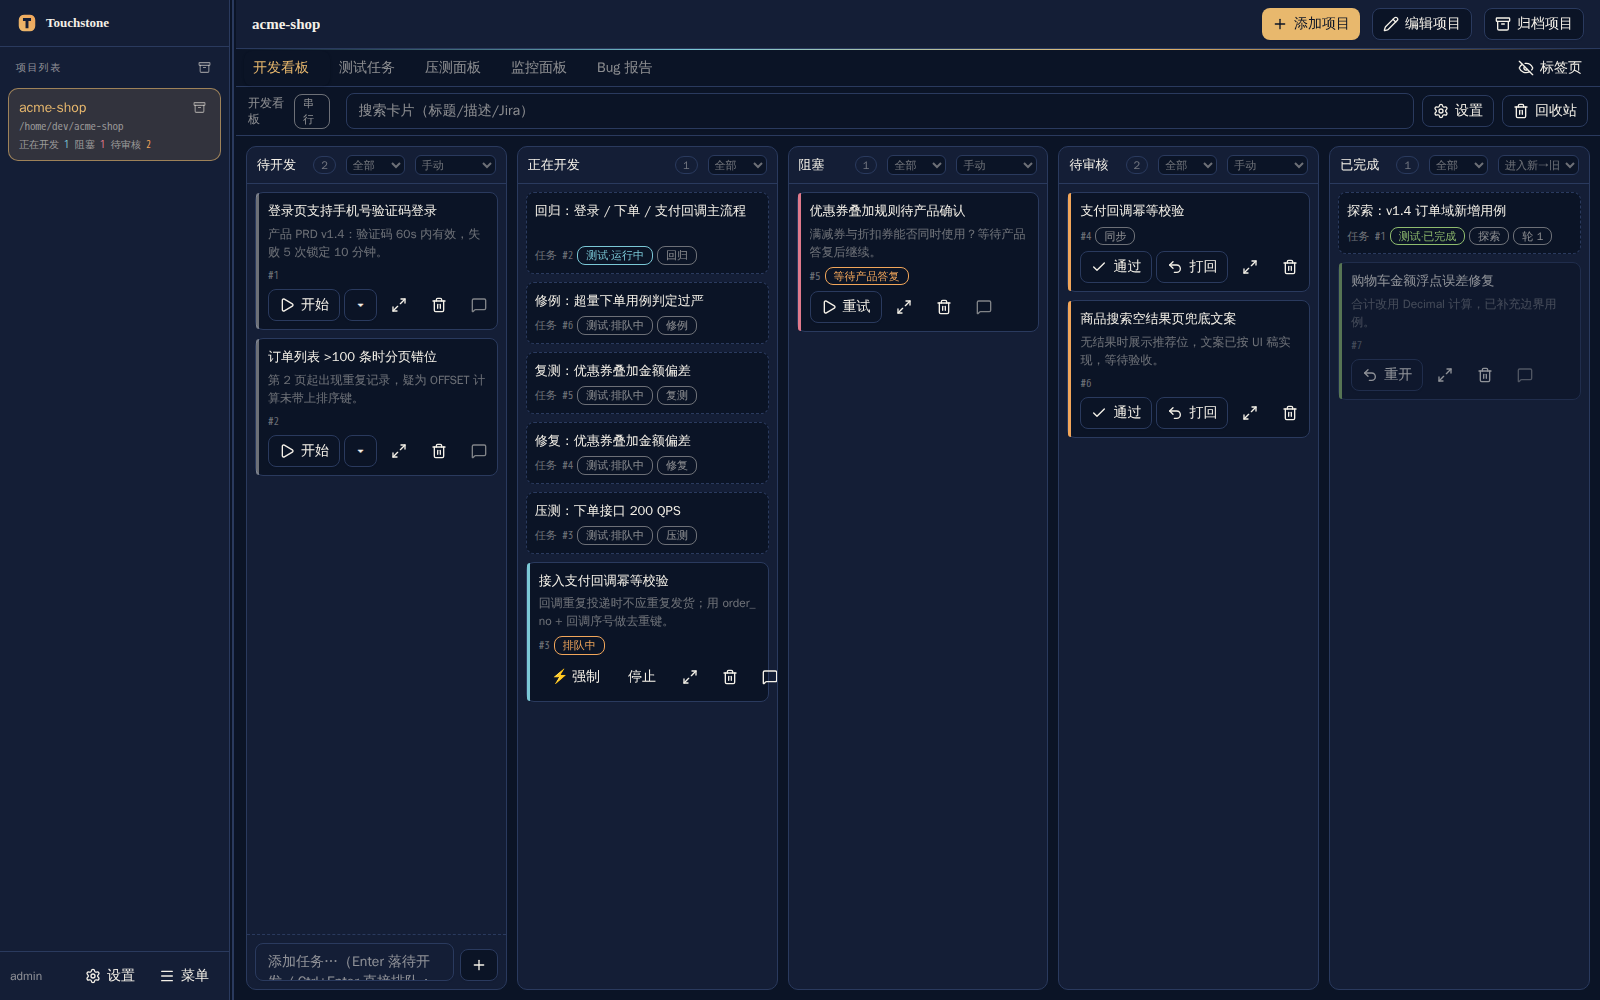
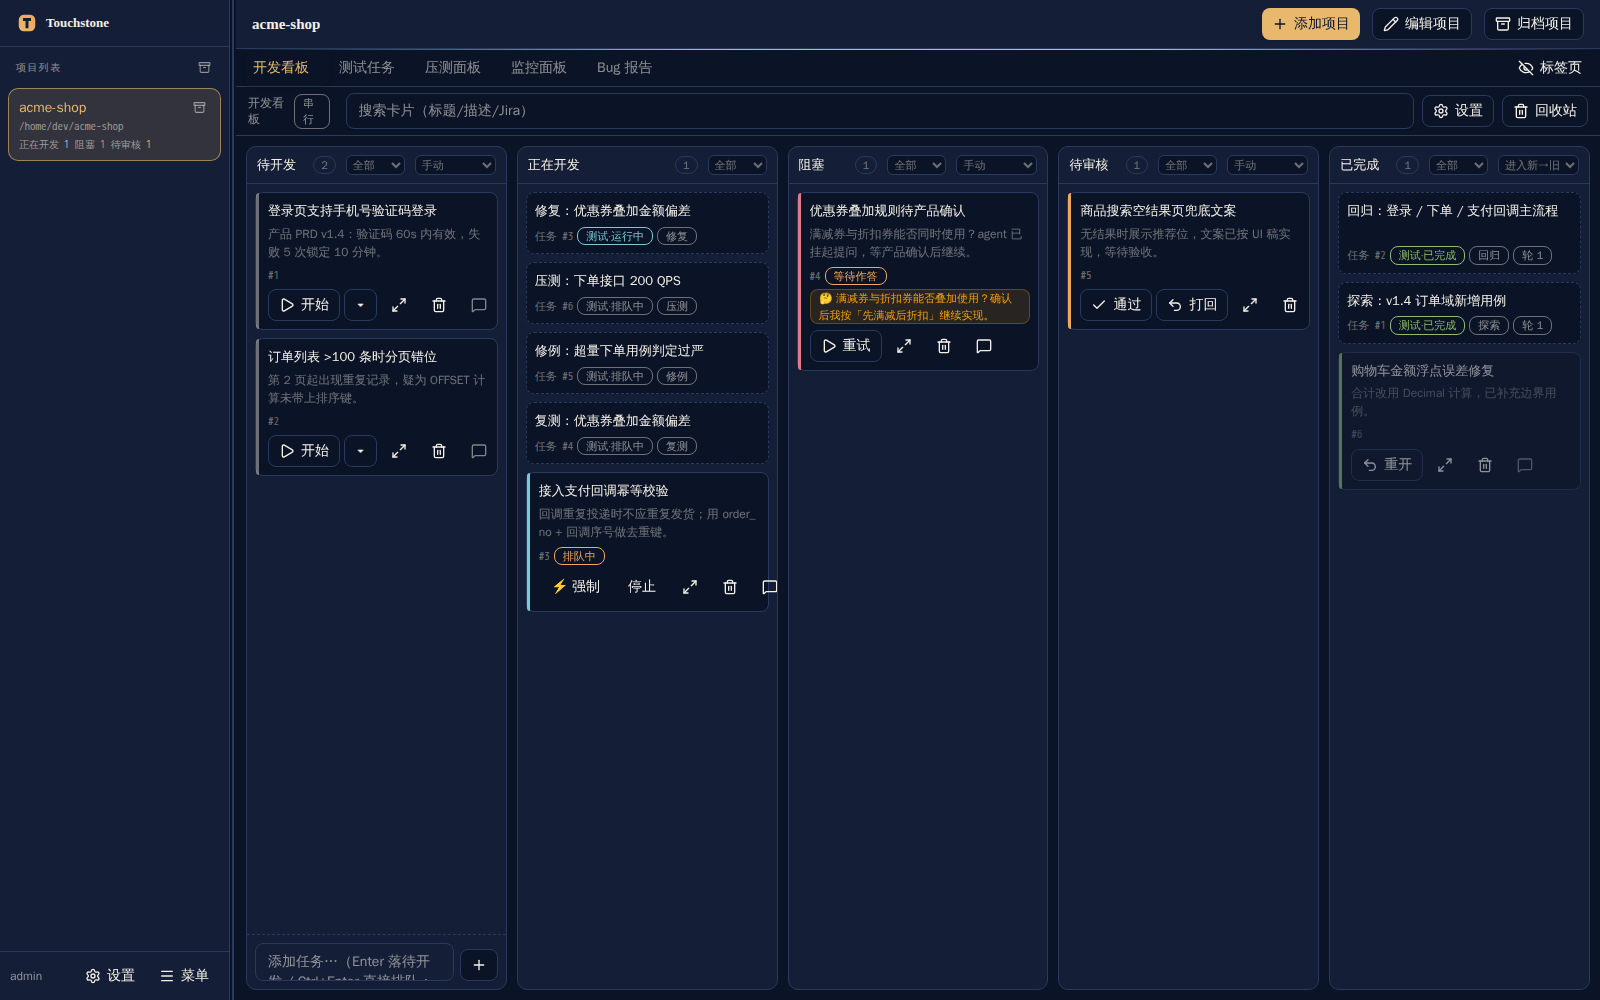
--AGENT-- fix(readme): make the blocked-card screenshot show the real interaction-blocked state
The board screenshot previously showed a free-text block reason typed straight through the API - something
the UI cannot produce (dragging a card into Blocked sends no text, so the badge reads the built-in
fallback). Recapture it through the platform's own path instead: start the card's session, have the
driver publish a pending question, and let the reconciler move the card to Blocked with the question
excerpt as the badge text.

To make that possible the fake dsh driver now models a hanging question the way the real plugin does:
/_ctl/ask accepts the dsh-shaped questions list, and a pending question keeps the session running
(the platform's pending check requires busy=True) until it is answered or ended.

Also reorder the demo seeding so the screenshot shows no artifacts of the stub (the stress task, whose
agent round cannot produce a load plan package, is queued last and stays 'queued').

Changed region(s): [[0.5, 0.186, 0.9688, 0.434], [0.3125, 0.186, 0.4688, 0.682]]

diff --git a/tests/fakedriver.py b/tests/fakedriver.py
@@ -14,7 +14,11 @@ chat/dshevents）走**原路径**跑起来。
 - **不落会话存储**：不写 `~/.dsh/sessions/**`，故会话窗的**消息内容**在替身下
   为空（本仓的隔离 e2e 断言的是队列/状态/徽标，不依赖消息正文）；
 - 忙时 `/prompt` 进 inbox（对齐宿主 followup 的排队语义），轮末自动取下一项；
-- `/_ctl/*` 是对照控制面（测试脚本用它制造提问/审批/错误/计数），真插件没有。
+- `/_ctl/*` 是对照控制面（测试脚本用它制造提问/审批/错误/计数），真插件没有；
+  `/_ctl/ask` 制造的挂起提问会**保持会话 running 并暂停轮计时**，直到 `/answer` 或
+  `/_ctl/end_interaction` 放行——对齐真插件「等作答时 agent 保持 busy」的实况
+  （平台 `_iw_interaction` 的 pending 判定要求 busy=True）；`/_ctl/ask` 传
+  `questions`（dsh 题目列表）时原样进 mark，平台阻塞徽标才能取到真题干。
 
 状态流帧（`?scope=state`）与真插件同形：`{seq, time, type, session_id, data}`，
 `dshevents.EventHub` 直接折叠（字段口径见该模块 `_on_frame`）。
@@ -292,6 +296,14 @@ class FakeDriver:
             while waited * 1000 < self.turn_ms:
                 if sess.turn_cancel.wait(step):
                     break
+                # 挂起提问/审批期间**不计入轮时长**（对齐真插件：agent 等作答时保持
+                # busy，平台 `_iw_interaction` 的 pending 判定要求 busy=True）。
+                # 作答（`/answer`）与 `/_ctl/end_interaction` 都会 set 该事件。
+                with sess.lock:
+                    held = sess.interaction is not None
+                if held:
+                    sess.await_answer.wait(step)
+                    continue
                 waited += step
             reason = "aborted" if sess.turn_cancel.is_set() else "completed"
             text = "" if reason == "aborted" else (
@@ -667,9 +679,17 @@ class _Handler(BaseHTTPRequestHandler):
             if sess is None:
                 return self._json(404, {"error": "session not found"})
             kind = str(body.get("kind") or "question")
+            questions = body.get("questions")
             if kind == "approval":
                 mark = {"kind": "approval", "answerable": bool(sess.held_approvals),
                         "id": "ap-1", "tool": "bash", "action": "执行命令"}
+            elif isinstance(questions, list) and questions:
+                # dsh 真形态：driver/interaction 帧里的题目列表**原样透传**——平台
+                # `_iw_interaction` 的 dsh 分支只认 `mark["questions"]`（真题干取
+                # q0.question 前 80 字进卡片阻塞徽标），平面 `question` 字段它读不到。
+                mark = {"kind": "question", "answerable": True,
+                        "call_id": str(body.get("call_id") or "call-1"),
+                        "questions": questions}
             else:
                 mark = {"kind": "question", "answerable": True, "call_id": "call-1",
                         "qid": "q-1", "question": str(body.get("question") or "继续吗？"),
@@ -688,6 +708,7 @@ class _Handler(BaseHTTPRequestHandler):
                 return self._json(404, {"error": "session not found"})
             with sess.lock:
                 sess.interaction = None
+            sess.await_answer.set()      # 放行 `_run_turn` 的挂起等待（继续计轮时长）
             drv.publish_state("driver/interaction", sess.sid,
                               {"state": "resolved", "interaction": None})
             return self._json(200, {"ok": True})
